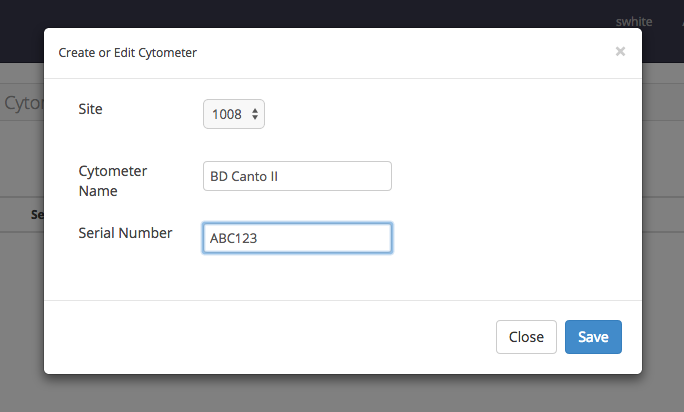
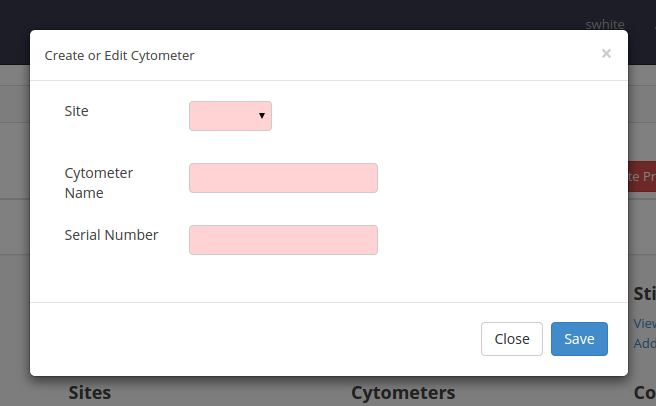
added docs for cytometer and visit type

diff --git a/docs/source/site-nav.rst b/docs/source/site-nav.rst
@@ -62,6 +62,30 @@ There are also site-level permissions which restrict access for site users. User
 
 :doc:`tutorials/add-site`
 
+============================
+Project Category - Cytometer
+============================
+
+Cytometers represent specific flow cytometers used to acquire FCS samples. A cytometer must belong to a pre-defined site, and the cytometer name and serial number fields are required. A cytometer name must be unique within a site.
+
+:doc:`tutorials/add-cytometer`
+
+=============================
+Project Category - Visit Type
+=============================
+
+Visit types can represent any temporal separation of data acquisition within a project. For clinical trials, a visit type may represent subject time points such as a baseline or 3 month follow-up. For proficiency tests, a visit type may represent a specific send out. The visit type name is required and must be unique within a project. The description is optional.
+
+:doc:`tutorials/add-visit-type`
+
+==============================
+Project Category - Stimulation
+==============================
+
+A stimulation represents... The stimulation name is required and must be unique within a project. The description is optional.
+
+:doc:`tutorials/add-stimulation`
+
 ======================
 Non-project Categories
 ======================

diff --git a/docs/source/tutorials/add-cytometer.rst b/docs/source/tutorials/add-cytometer.rst
@@ -1,0 +1,22 @@
+Tutorial - Adding a Cytometer
+=============================
+
+.. note:: Adding a cytometer requires either the project-level permission "Add Project Data" or the site-level permission "Add Site Data". See :doc:`../permissions`. Also, the site to which a cytometer belongs must be added to ReFlow prior to adding the cytometer.
+
+#.  Login to the ReFlow server and navigate to the desired project by clicking on the project link.
+
+#.  From the project detail page, click the **Add Cytometer** link.
+
+    .. image:: ../images/project-detail.png
+
+    .. note:: Cytometers can also be added from the **Cytometer** list page by clicking on the **Add Cytometer** button located near the upper right of that page (beside the main heading).
+
+#. A new modal window will appear displaying the form fields.
+
+    .. image:: ../images/new-cytometer-modal.png
+
+#.  On the cytometer form, fill out the relevant fields. Note, all fields are required and a site cannot have duplicate cytometers with the same cytometer name. Once the form is completed, click the **Save** button.
+
+    .. note:: If there were validation errors with the submitted form, the form will be re-displayed along with the validation errors.
+
+#.  Once the new cytometer is created, the modal window will close.

diff --git a/docs/source/tutorials/add-visit-type.rst b/docs/source/tutorials/add-visit-type.rst
@@ -1,0 +1,24 @@
+Tutorial - Adding a Visit Type
+==============================
+
+.. note:: Adding a visit type requires the project-level permission "Add Project Data".  See :doc:`../permissions`
+
+#.  Login to the ReFlow server.
+
+#.  From the ReFlow home page, navigate to the project by clicking on the project link.
+
+#.  From the project detail page, click the **Add Visit Type** link.
+
+    .. image:: ../images/project-detail.png
+
+    .. note:: Visit types can also be added from the **Visit Type** list page by clicking on the **Add Visit Type** button located near the upper right of that page (beside the main heading).
+
+#. A new modal window will appear displaying the form fields.
+
+    .. image:: ../images/new-visit-type-modal.png
+
+#.  Fill out the form fields. Note, **Name** is required and a project cannot have duplicate visit type names. The description field is optional. Once the form is completed, click the **Save** button.
+
+    .. note:: If there were validation errors with the submitted form, the form will be re-displayed along with the validation errors.
+
+#.  Once the new visit type is created, the modal window will close.

diff --git a/docs/source/tutorials-index.rst b/docs/source/tutorials-index.rst
@@ -7,3 +7,6 @@ Tutorials
    tutorials/add-project
    tutorials/add-subject-group
    tutorials/add-subject
+   tutorials/add-site
+   tutorials/add-cytometer
+   tutorials/add-visit-type
